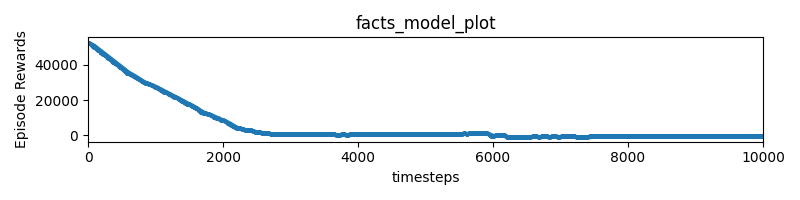
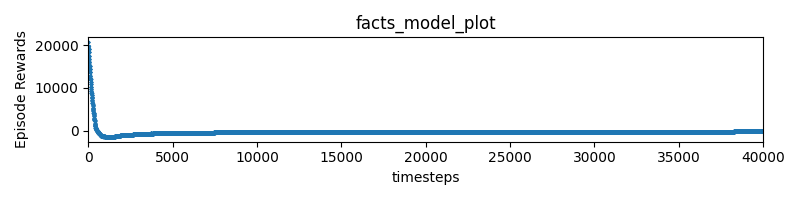
3s connector

diff --git a/3sconnector.py b/3sconnector.py
@@ -31,7 +31,7 @@ class BasicEnv(gym.Env):
     def __init__(self):
         self.action_space = spaces.Discrete(6)
         #self.observation_space = spaces.Discrete(1000)
-        self.observation_space = spaces.Box(0, 255, [10, 10, 14])
+        self.observation_space = spaces.Box(0, 255, [10, 10, 12])
 
 
     def step(self, action):
@@ -71,9 +71,10 @@ class BasicEnv(gym.Env):
         #state = stationID
         #state = state_final_line[1]
         #state = numpy.array(state_final_line[1], state_final_line[2]).astype(numpy.float32)
-        state = numpy.array([state_final_line[1], state_final_line[2],state_final_line[3], state_final_line[4], state_final_line[5], state_final_line[6],
+        state = numpy.array([state_final_line[1], state_final_line[2],
+                             state_final_line[3], state_final_line[4], state_final_line[5], state_final_line[6], state_final_line[7],
                              state_final_line[8],state_final_line[9], state_final_line[10],
-                             state_final_line[11], state_final_line[12], state_final_line[13], state_final_line[14], state_final_line[15]])
+                             state_final_line[11], state_final_line[12]])
 
         #state = numpy.array([state_final_line[1], state_final_line[2], state_final_line[3]])
 
@@ -93,7 +94,7 @@ class BasicEnv(gym.Env):
 
         #LT_nor = - (LeadTime - 40000) only for leadtime9, wrong test
 
-        LT_nor = - (LeadTime - 53000)
+        LT_nor = - (LeadTime - 21000)
 
         reward = LT_nor
 
@@ -169,9 +170,9 @@ if not os.path.exists(log_dir):
 env = Monitor(env, log_dir)
 
 
-model = DQN("MlpPolicy", env, verbose=1,tensorboard_log=log_dir,learning_rate= 0.2, learning_starts=200)
+model = DQN("MlpPolicy", env, verbose=1,tensorboard_log=log_dir,learning_rate= 0.1, learning_starts=2000)
 callback = SaveOnBestTrainingRewardCallback(check_freq=100, log_dir=log_dir)
-timesteps = 1000
+timesteps = 10000
 model.learn(total_timesteps=timesteps, callback=callback)
 
 plot_results([log_dir], timesteps, results_plotter.X_TIMESTEPS, "facts_model_plot")
